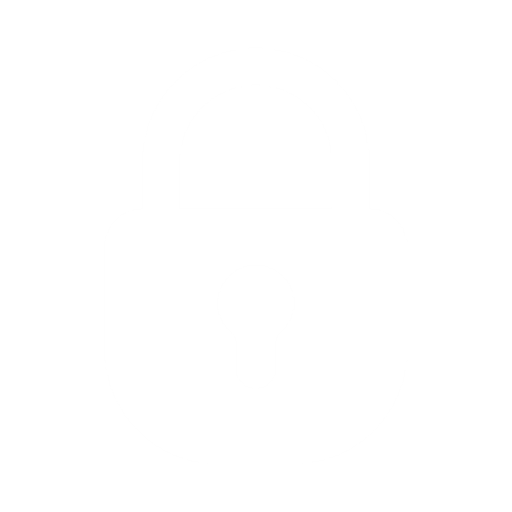
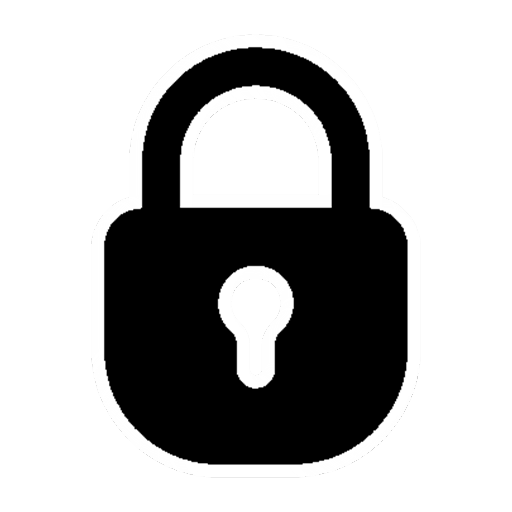
Outline launcher lock for dark backgrounds

diff --git a/index.html b/index.html
@@ -5,8 +5,8 @@
     <meta name="viewport" content="width=device-width, initial-scale=1.0" />
     <meta name="theme-color" content="#111526" />
     <link rel="manifest" href="/manifest.webmanifest" />
-    <link rel="icon" type="image/png" href="/icon-192.png" />
-    <link rel="apple-touch-icon" sizes="180x180" href="/apple-touch-icon.png" />
+    <link rel="icon" type="image/png" href="/icon-192-outline.png" />
+    <link rel="apple-touch-icon" sizes="180x180" href="/apple-touch-icon-outline.png" />
     <title>LockIn — 21 days, one commitment</title>
     <style>
       #boot-splash {
@@ -22,7 +22,7 @@
   </head>
   <body>
     <div id="boot-splash" role="status" aria-label="Loading LockIn">
-      <img src="/icon-512.png" alt="" />
+      <img src="/icon-512-outline.png" alt="" />
     </div>
     <div id="root"></div>
     <script type="module" src="/src/main.tsx"></script>

diff --git a/src/components/ui.tsx b/src/components/ui.tsx
@@ -3,7 +3,7 @@ import type {
   InputHTMLAttributes,
   ReactNode,
 } from "react";
-import { BrandMark } from "./BrandMark";
+import outlineMark from "../assets/lock-mark-outline.png";
 
 export function Button({
   children,
@@ -99,7 +99,7 @@ export function Loading({ label = "Loading your space…" }: { label?: string })
 export function SplashScreen() {
   return (
     <div className="splash-screen" role="status" aria-label="Loading LockIn">
-      <BrandMark className="splash-mark" />
+      <img className="splash-mark" src={outlineMark} alt="" aria-hidden="true" />
       <span className="sr-only">Loading LockIn</span>
     </div>
   );

diff --git a/src/styles.css b/src/styles.css
@@ -101,7 +101,7 @@ p { line-height: 1.65; }
 .sidebar .brand { margin: 2px 11px 67px; }
 .brand-mark { display: block; width: 25px; height: 34px; flex-shrink: 0; object-fit: contain; }
 .splash-screen { display: grid; place-items: center; min-height: 100dvh; background: #111526; }
-.splash-mark { width: 100px; height: 136px; }
+.splash-mark { display: block; width: 160px; height: 160px; object-fit: contain; }
 .brand-period { color: var(--blue); }
 .nav-caption { padding: 0 16px; margin-bottom: 13px; color: var(--muted); font-size: .72rem; font-weight: 800; }
 .side-nav { display: grid; gap: 4px; }
